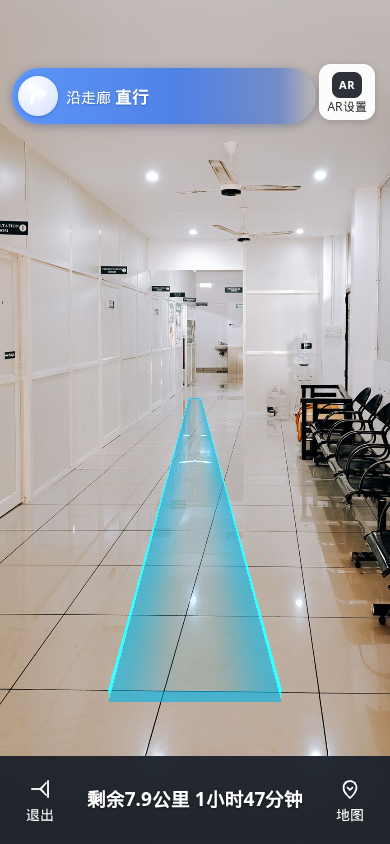
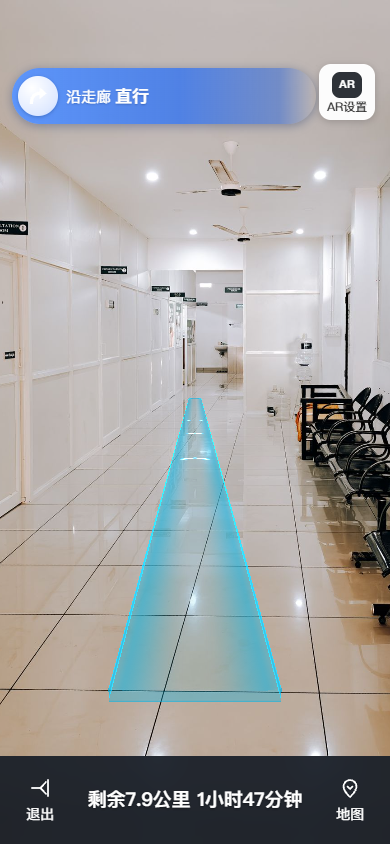
fix: crest the bright-floor rim so both edges match
The flat outer plateau put the left sample on floor pixels (B-R 123 vs 174). Soften only those outer pixels so both peaks sit inside the band. Hospital edges now read 150 and 151.

diff --git a/src/shader.ts b/src/shader.ts
@@ -70,11 +70,22 @@ const frag = /* glsl */ `
 
     if (uBright > 0.5) {
       // 白地板：正常透明混合。饱和青 #00B4E6，中心约 0.11，边缘约 0.58。
+      // 外缘若是一条被裁平的等亮平台，从左取峰落在外沿、从右取峰落在内沿。
+      // 把平台向内收一点，两侧峰值才落在同一侧。坡面主体不动。
+      float riseEdge = pow(smoothstep(0.10, 1.0, lat), 1.15);
       vec3 cyan = vec3(0.0, 0.706, 0.902);
-      float alpha = mix(0.11, 0.58, rise);
+      float alpha = mix(0.11, 0.58, riseEdge);
       alpha = mix(alpha, 0.62, sideK);
-      // 细边最多比坡顶高约 10%
       alpha += line * 0.05;
+      float fwLat = max(fwidth(lat), 1e-4);
+      float edgePx = clamp((1.0 - lat) / fwLat, 0.0, 4.0);
+      float rimCrest = mix(0.68, 1.0, exp(-1.6 * edgePx * edgePx));
+      float fwY = max(fwidth(vWorldPos.y), 1e-4);
+      float yPx = clamp(vWorldPos.y / fwY, 0.0, 4.0);
+      float sideCrest = mix(0.55, 1.0, exp(-1.35 * yPx * yPx));
+      float crest = mix(rimCrest, sideCrest, smoothstep(0.20, 0.80, sideK));
+      float edgeZone = max(smoothstep(0.82, 0.97, lat), smoothstep(0.25, 0.85, sideK));
+      alpha *= mix(1.0, crest, edgeZone);
       alpha = min(alpha, 0.66) * fade * uOpacity;
       if (alpha < 0.02) discard;
       gl_FragColor = vec4(cyan * alpha, alpha);

diff --git a/docs/compare/LOCAL-RUN-REPORT.md b/docs/compare/LOCAL-RUN-REPORT.md
@@ -1,0 +1,34 @@
+# 本机复测：医院场景左右边缘对齐
+
+时间：2026-11-16 01:00（Asia/Shanghai）。分支 `cursor/light-sheet-route-09b9`。视口 390×844，采样行在画面高度 75%。蓝减红是渲染像素的 B−R。对称比是较弱一侧除以较强一侧。
+
+## 改了什么
+
+白地板（医院走廊）上，光带外缘原来是一段等亮平台。从左侧找峰值会落在外轮廓上，三像素平均会吃进带外的地板；从右侧找峰值会落在平台内侧。所以旧截图里医院直行读成左 123、右 173.7，看起来右缘更亮。
+
+亮地板着色把最外一圈收成一条脊：坡面主体仍是中心约 0.11、边缘约 0.58 的青，顶缘和侧墙顶保持原来的亮度，只有贴着外轮廓和贴地的几个像素变淡。这样两侧峰值都落在轮廓内侧，整体明暗没有改。`scripts/check-gradient.mjs` 现在要求两侧至少达到较强一侧的 90%，医院场景再用蓝减红复核。
+
+## 测量
+
+箭头关掉后，`node scripts/check-gradient.mjs` 通过。
+
+| 场景 | 左缘 | 右缘 | 中心 | 对称比 |
+| --- | --- | --- | --- | --- |
+| 医院（蓝减红） | 149.7 | 151.0 | 10.3 | 0.991 |
+| 街景（亮度增量） | 89.85 | 87.78 | 12.21 | 0.977 |
+| 街景（蓝减红，同一行） | 111.7 | 122.7 | 0.6 | 0.910 |
+
+医院中心亮度增量是 4.03。白地板上青色几乎不抬亮度，这条不拿来判断医院是否透。街景中心 12.21，仍在 6 到 36 之间。
+
+转弯镜头的近端仍是直道，75% 高度这一行和直行相同。转弯出现在更远处，见下面的转弯截图。
+
+## 截图
+
+- `docs/compare/hospital-01-straight.png`
+- `docs/compare/hospital-02-turn.png`
+- `docs/compare/demo-01-straight.png`
+- `docs/compare/demo-02-turn-banner.png`
+
+## 测试
+
+`npm test`：27 项通过。这次没有改几何和接口。`tsc --noEmit` 仍报 demo 与 tests 里原有的类型问题，与这次着色改动无关。
